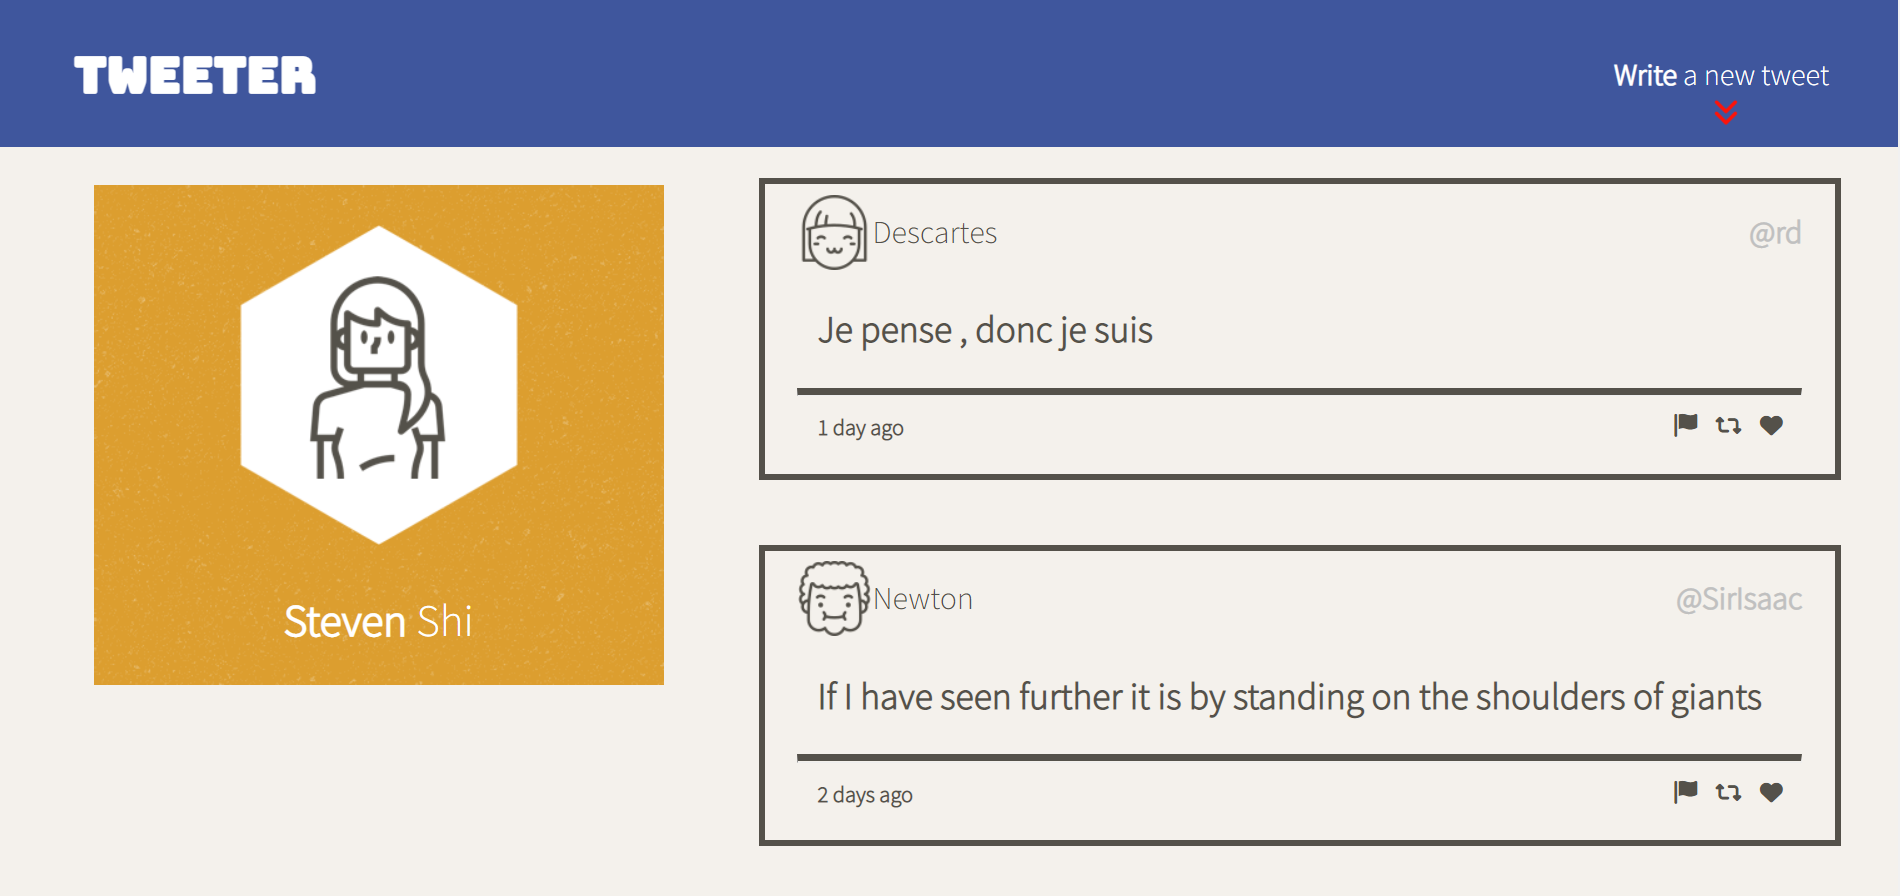
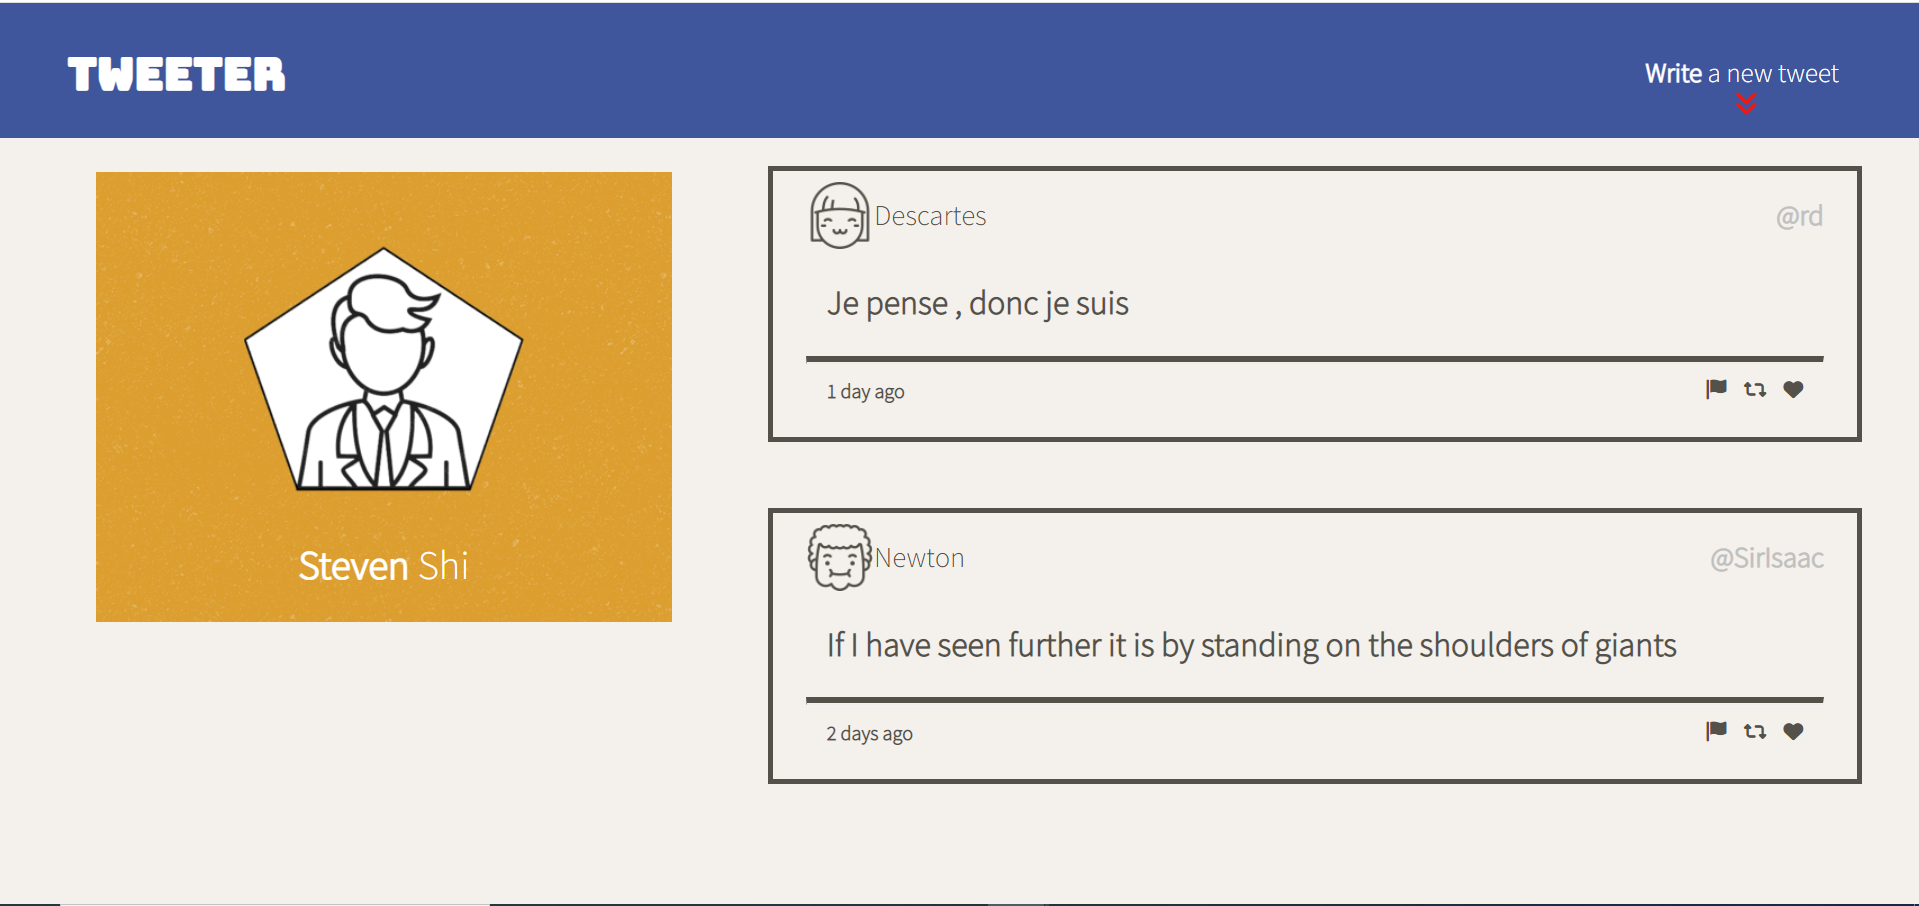
Update profile pic, and screenshots

diff --git a/public/index.html b/public/index.html
@@ -36,7 +36,7 @@
     </nav>
     <header class="main-header" id="main-header">
       <div>
-        <img src="./images/profile-hex.png">
+        <img src="./images/Profile Line Black Icon.png">
       </div>
       <br>
       <div>
